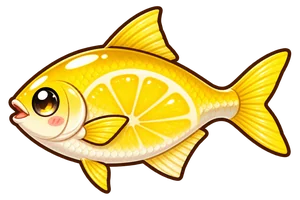
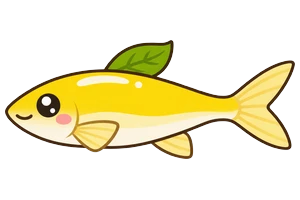
물고기 등급(S~D)과 '와! ○○○을 잡았다!' 연출, 레몬전어 새 그림
- 같은 물고기도 등급마다 크기 구간이 다르다: S 3% · A 9% · B 18% · C 30% · D 40%(멀리 던지면 S·A가 조금 더)
- 값 배수 S 2 · A 1.5 · B 1.25 · C 1.1 · D 1
- 잡으면 화면 위에 '와! ○○○을 잡았다!'와 등급 표시, 결과 카드·카피수퍼 판매 목록·할아버지 감정에도 등급
- 레몬전어: 입술·비늘 무늬를 뺀 매끈한 그림으로

Claude-Session: https://claude.ai/code/session_015t7mwg1NEPVKJN39Z7Zz4S

diff --git a/js/fishing.js b/js/fishing.js
@@ -68,12 +68,17 @@ export function rollCatch(zone, rodT, isPearl, power) {
   const under = rodT < zone, pool = FISH.filter(f => f.z === zone && !(under && (f.rare || f.king)));
   const more = FISH.filter(f => f.z === zone && !f.rare && !f.king).length / BASE_COMMON[zone]; // 물고기 종류가 늘어도 귀한 것·대장이 나올 확률은 예전 그대로
   const w = pool.map(f => (f.king ? 0.25 * more : f.rare ? 0.45 * more : 1) * (f.king || f.rare ? 1 + power * 1.2 : 1)), tot = w.reduce((a, b) => a + b, 0); let r = Math.random() * tot, f = pool[0]; for (let i = 0; i < pool.length; i++) { r -= w[i]; if (r <= 0) { f = pool[i]; break; } }
-  const t = Math.min(1, Math.pow(Math.random(), 1.6 - power * 0.6)), cm = Math.round((f.cm[0] + (f.cm[1] - f.cm[0]) * t) * 10) / 10; // 멀리 던질수록 큰 놈이 잘 문다
-  const price = Math.round(f.price[0] + (f.price[1] - f.price[0]) * Math.pow(t, 1.3));
+  // 등급(크기): 같은 물고기라도 D~S. S일수록 드물고 크고 비싸다. 멀리 던질수록 높은 등급이 조금 더 잘 문다
+  const g = rollGrade(power), [b0, b1] = GRADE[g].band, t = b0 + (b1 - b0) * Math.random(), cm = Math.round((f.cm[0] + (f.cm[1] - f.cm[0]) * t) * 10) / 10;
+  const price = Math.round((f.price[0] + (f.price[1] - f.price[0]) * Math.pow(t, 1.3)) * GRADE[g].x);
   const d = zone === 1 ? 1 + t * 2 : zone === 2 ? 4 + t * 2 + (f.rare ? 1 : 0) : 6.5 + t * 2 + (f.king ? 1 : 0); // 낚싯대 차이는 '끊어짐 칸을 몇 번 버티나'로 따로 매긴다
   const shiny = zone >= 2 && Math.random() < SHINY_P;
-  return { f, cm, price: shiny ? Math.round(price * SHINY_X) : price, d, p: power, shiny };
+  return { f, cm, g, price: shiny ? Math.round(price * SHINY_X) : price, d, p: power, shiny };
 }
+// 등급표: 확률(기본) · 크기 구간(물고기 크기 범위 안에서) · 값 배수
+export const GRADE = { S: { p: 3, band: [0.9, 1], x: 2 }, A: { p: 9, band: [0.75, 0.9], x: 1.5 }, B: { p: 18, band: [0.55, 0.75], x: 1.25 }, C: { p: 30, band: [0.3, 0.55], x: 1.1 }, D: { p: 40, band: [0, 0.3], x: 1 } };
+function rollGrade(power) { const w = Object.entries(GRADE).map(([k, v]) => [k, v.p * (k === 'S' || k === 'A' ? 1 + power * 0.6 : 1)]), tot = w.reduce((a, [, x]) => a + x, 0); let r = Math.random() * tot; for (const [k, x] of w) { r -= x; if (r <= 0) return k; } return 'D'; }
+const josaUl = w => { const c = (w || '').charCodeAt(w.length - 1) - 0xAC00; return w + (c >= 0 && c <= 11171 && c % 28 !== 0 ? '을' : '를'); };
 // 물고기가 화내며 팔짝 뛸 때: 줄이 한순간에 확 팽팽해진다(누르고 있으면 그대로, 손을 뗐으면 절반). [초급, 중급, 고급]
 const SPIKE = [0, 14, 20, 26], SPIKE_GAP = [[0, 0], [5, 8], [4, 6.5], [3, 5]], TELE = 400;
 // 난이도 맞춤(가상 플레이로 맞춘 값): 손이 빠른 사람이 초급 낚싯대로 초급 56%·중급 48%·고급 39%쯤, 고급 낚싯대로 79%·79%·71%쯤 잡는다. 서툴면 거의 못 잡는다
@@ -152,12 +157,15 @@ export function openFishing(o) {
   function fail(text) { sfx(/끊어/.test(text) ? 'snap' : 'bad'); ready(text); }
   function landed() {
     const { f, cm, price, shiny } = cur; sfx(price <= 0 ? 'bad' : f.king || f.rare || f.pearl || shiny ? 'bigfish' : 'coin'); if (price > 0) splash(34, true); phase = 'done'; patEl.hidden = true; pearlTxt.hidden = true; if (!f.pearl) wrap.classList.remove('pearl'); wrap.classList.remove('fight', 'reel'); float.style.display = rl.style.display = hook.style.display = 'none'; fishEl.className = 'fs-fish';
-    const keep = price > 0 && o.keep; if (keep) o.keep({ id: f.id, cm, p: price, ...(shiny ? { shiny: 1 } : {}) }); else o.coins(price); if (!f.icon) o.dex(f.id, cm, shiny); // 물고기는 바로 돈이 아니라 가방에 담아 카피마켓에 판다
+    const keep = price > 0 && o.keep; if (keep) o.keep({ id: f.id, cm, p: price, ...(cur.g ? { g: cur.g } : {}), ...(shiny ? { shiny: 1 } : {}) }); else o.coins(price); if (!f.icon) o.dex(f.id, cm, shiny); // 물고기는 바로 돈이 아니라 가방에 담아 카피마켓에 판다
     const w = weightOf(f, cm), card = h('div', { class: 'fs-card' + (f.pearl ? ' pearl' : f.king ? ' king' : f.rare || shiny ? ' rare' : f.icon ? ' trash' : '') + (shiny ? ' shiny' : '') }, h('div', { class: 'fs-pic', html: fishSvg(f, true, shiny) }), shiny && h('em', { class: 'fs-shiny' }, '✨ 이로치! 색이 다른 귀한 녀석 · 값 1.5배 ✨'),
-      h('b', null, f.pearl ? '✨ 바다 진주! ✨' : f.king ? `👑 ${f.name}` : f.name), !f.icon && !f.pearl && h('p', null, `${cm}cm · ${kg(w)}`), keep ? h('p', { class: 'fs-won kept' }, '🧺 가방에 담았어요 · 카피수퍼 물고기 판매에서 팔아요') : h('p', { class: 'fs-won' }, price > 0 ? `+${price.toLocaleString('ko-KR')} 🪙` : `${price} 🪙`), o.trial && h('small', null, '체험 중이라 돈과 도감은 저장되지 않아요.'),
+      h('b', null, f.pearl ? '✨ 바다 진주! ✨' : f.king ? `👑 ${f.name}` : f.name), cur.g && h('span', { class: 'fs-grade g' + cur.g }, `${cur.g}등급`), !f.icon && !f.pearl && h('p', null, `${cm}cm · ${kg(w)}`), keep ? h('p', { class: 'fs-won kept' }, '🧺 가방에 담았어요 · 카피수퍼 물고기 판매에서 팔아요') : h('p', { class: 'fs-won' }, price > 0 ? `+${price.toLocaleString('ko-KR')} 🪙` : `${price} 🪙`), o.trial && h('small', null, '체험 중이라 돈과 도감은 저장되지 않아요.'),
       f.icon && h('small', null, '바다 쓰레기를 건졌어요. 처리 비용이 나갔어요.'),
       h('div', { class: 'fs-acts' }, h('button', { class: 'btn primary', onClick: () => { card.remove(); ready(); } }, '또 던지기'), h('button', { class: 'btn', onClick: () => { card.remove(); close(); } }, '그만하기')));
     wrap.append(card); say(''); btn.textContent = '…'; btn.onclick = null;
+    // 와! ○○○을 잡았다! — 화면 가득 터지는 글자, 그 아래 등급
+    if (!f.icon) { const wow = h('div', { class: 'fs-wow' + (cur.g ? ' g' + cur.g : '') + (f.pearl || f.king ? ' gold' : '') }, h('b', null, `와! ${josaUl(f.pearl ? '바다 진주' : f.name)} 잡았다!`), cur.g && h('span', { class: 'fs-grade big g' + cur.g }, cur.g), cur.g && h('small', null, { S: '전설의 대물!', A: '엄청 큰 녀석!', B: '꽤 큼직해요', C: '보통 크기', D: '아담한 녀석' }[cur.g]));
+      (wrap.querySelector('.fs-view') || wrap).append(wow); setTimeout(() => wow.classList.add('out'), 1900); setTimeout(() => wow.remove(), 2400); }
   }
   // 찔끔찔끔 누르기: 0.3초도 안 되게 눌렀다 떼면 물고기가 눈치채고 인내심이 깎인다(깊은 바다일수록 많이)
   const down = () => { if (!hold) pressAt = performance.now(); hold = true; };

diff --git a/js/social.js b/js/social.js
@@ -679,11 +679,12 @@ export function mount(el, ctx) {
     bag = { ...bag, fish: { ...(bag.fish || {}), [k]: v } }; ctx.store.update('bag/' + ctx.uid + '/fish', { [k]: v }).catch(() => {}); }
   const fishOf = id => (id === 'pearl' ? { name: '바다 진주', pearl: true } : FISH.find(f => f.id === id));
   function appraise(x) { const f = fishOf(x.id), p = won(x.p);
+    const gl = x.g ? ` ${x.g}등급이여!${x.g === 'S' ? ' 이런 대물은 처음 보는구먼!' : x.g === 'A' ? ' 아주 귀한 크기여.' : ''}` : '';
     if (!f) return `허허, 이건 뭔지 모르겠구먼. ${p} 쳐 주지.`;
     if (f.pearl) return `이, 이건… 바다 진주 아닌가! 평생 몇 번 못 보는 물건이여. 군말 없이 ${p} 쳐 주지!`;
     const [c0, c1] = f.cm, t = Math.max(0, Math.min(1, (x.cm - c0) / (c1 - c0))), pct = Math.round(t * 100), big = t >= 0.8 ? '아주 실하네!' : t >= 0.5 ? '제법 큼직하구먼.' : t >= 0.2 ? '보통 크기여.' : '아직 어린 녀석이구먼.';
     const jong = w => { const c = w.charCodeAt(w.length - 1) - 0xAC00; return c >= 0 && c <= 11171 && c % 28 !== 0; }, nm = f.name, eun = nm + (jong(nm) ? '은' : '는'), ine = nm + (jong(nm) ? '이네' : '네'), igu = nm + (jong(nm) ? '이구먼' : '구먼');
-    return `${f.king ? `어이쿠, 이게 그 ${nm}!? 이건 ${x.cm}cm짜리여.` : f.rare ? `오호, 귀한 ${igu}! 이건 ${x.cm}cm짜리여.` : `오~ 이건 ${x.cm}cm짜리 ${ine}.`} ${big} ${eun} ${c0}~${c1}cm 사이에서 클수록 값이 올라. ${x.cm}cm면 상위 ${Math.max(1, 100 - pct)}%라… 센치로 환산하면 ${x.shiny ? `${won(Math.round(x.p / 1.5))}인데… 가만, 이건 이로치 아닌가! 색이 다른 놈은 평생 몇 번 못 보지. 1.5배 쳐서 ${p}!` : `이 가격이여, ${p}!`}`; }
+    return `${f.king ? `어이쿠, 이게 그 ${nm}!? 이건 ${x.cm}cm짜리여.` : f.rare ? `오호, 귀한 ${igu}! 이건 ${x.cm}cm짜리여.` : `오~ 이건 ${x.cm}cm짜리 ${ine}.`}${gl} ${big} ${eun} ${c0}~${c1}cm 사이에서 클수록 값이 올라. ${x.cm}cm면 상위 ${Math.max(1, 100 - pct)}%라… 센치로 환산하면 ${x.shiny ? `${won(Math.round(x.p / 1.5))}인데… 가만, 이건 이로치 아닌가! 색이 다른 놈은 평생 몇 번 못 보지. 1.5배 쳐서 ${p}!` : `이 가격이여, ${p}!`}`; }
   const GRANDPA = capy({ color: 'choco', face: 'happy', head: true }).replace('</svg>', '<path d="M14 33 q10 -9 20 -1" fill="none" stroke="#F4F1EA" stroke-width="5" stroke-linecap="round"/><path d="M86 32 q10 -8 20 1" fill="none" stroke="#F4F1EA" stroke-width="5" stroke-linecap="round"/><circle cx="24" cy="42" r="10" fill="rgba(255,255,255,.25)" stroke="#C9A24A" stroke-width="2.6"/><circle cx="96" cy="42" r="10" fill="rgba(255,255,255,.25)" stroke="#C9A24A" stroke-width="2.6"/><path d="M34 42 q26 -8 52 0" fill="none" stroke="#C9A24A" stroke-width="2.2"/><path d="M38 66 q10 -8 22 -1 q12 -7 22 1 q-10 9 -22 3 q-12 6 -22 -3z" fill="#F4F1EA" stroke="#D8D2C4" stroke-width="1.5"/><path d="M22 18 q38 -26 76 0 q-38 -8 -76 0z" fill="#6B4A2F"/><rect x="18" y="13" width="84" height="8" rx="4" fill="#7E5A3A"/></svg>');
   // ----- 카피수퍼: 할아버지 주인장이 판매대 뒤에서 사고판다 -----
   const STALL = (() => { const B = '#94694A', D = '#5F3F2B', L = '#C9A07C', head = GRANDPA.replace('<svg xmlns="http://www.w3.org/2000/svg" viewBox="0 -22 120 112">', '<svg x="136" y="0" width="88" height="82" viewBox="0 -22 120 112" overflow="visible">');
@@ -745,7 +746,7 @@ export function mount(el, ctx) {
       const L = Object.entries(bag.fish || {}).filter(([, v]) => v).sort((a, b) => (b[1].t || 0) - (a[1].t || 0)), total = L.reduce((n, [, v]) => n + v.p, 0);
       out.push(['sec', `🐟 물고기 ${L.length}마리`]);
       if (L.length) { out.push(h('button', { class: 'btn primary mk-all', onClick: async () => { if (await sell(total, fishGo(L), true)) { say(`허허, 몽땅 합쳐서 ${won(total)}이여. 다음에도 싱싱한 놈으로 부탁하네!`); draw(); } } }, `물고기 전부 팔기 · ${won(total)}`));
-        L.forEach(([k, v]) => { const f = fishOf(v.id) || { name: '?' }; out.push({ big: 1, gold: f.pearl || f.king || f.rare || v.shiny, ic: h('span', { class: 'so-try', html: f.pearl ? fishSvg({ pearl: true }) : f.id ? fishSvg(f, false, v.shiny) : '' }), name: (v.shiny ? '✨ ' : '') + (f.king ? '👑 ' + f.name : f.name), sub: f.pearl ? '반짝반짝 진주 · 눌러서 값 물어보기' : `${v.cm}cm · 눌러서 값 물어보기`, price: v.p, line: () => appraise(v), done: `거래 고맙구먼! ${won(v.p)} 여기 있네.`, act: () => sell(v.p, fishGo([[k, v]]), true) }); }); }
+        L.forEach(([k, v]) => { const f = fishOf(v.id) || { name: '?' }; out.push({ big: 1, gold: f.pearl || f.king || f.rare || v.shiny, ic: h('span', { class: 'so-try', html: f.pearl ? fishSvg({ pearl: true }) : f.id ? fishSvg(f, false, v.shiny) : '' }), name: (v.shiny ? '✨ ' : '') + (f.king ? '👑 ' + f.name : f.name) + (v.g ? ` · ${v.g}등급` : ''), sub: f.pearl ? '반짝반짝 진주 · 눌러서 값 물어보기' : `${v.cm}cm · 눌러서 값 물어보기`, price: v.p, line: () => appraise(v), done: `거래 고맙구먼! ${won(v.p)} 여기 있네.`, act: () => sell(v.p, fishGo([[k, v]]), true) }); }); }
       else out.push(['note', '가방에 물고기가 없어요. 낚시터에서 잡아 오세요.']);
       const rares = Object.keys(bag.rares || {}).filter(k => bag.rares[k]).map(Number), pins = Object.keys(bag.pins || {}).filter(k => bag.pins[k]).map(Number), hats = ANIMALS.map((_, i) => i).filter(i => uidOwned[wareOf(i).id]);
       const clothes = Object.keys(uidOwned).filter(id => uidOwned[id] && !id.startsWith('h-zoo') && priceOf(id) > 0);

diff --git a/css/app.css b/css/app.css
@@ -1334,3 +1334,17 @@ html.fixed-page,html.fixed-page body{overflow:hidden;height:100%;overscroll-beha
 .tal-time i { position: absolute; left: 0; top: 0; bottom: 0; background: linear-gradient(90deg, #7B4FB5, #B07FE8); transition: width .1s linear; }
 .tal-time b { position: relative; display: block; text-align: center; font-size: 12px; line-height: 18px; color: #fff; text-shadow: 0 1px 2px rgba(0,0,0,.4); }
 .tal-time.hurry i { background: linear-gradient(90deg, #E5484D, #FF8787); } .tal-time.hurry { animation: crowShake .3s ease-in-out infinite; }
+/* 물고기 등급 */
+.fs-grade { display: inline-block; min-width: 26px; padding: 1px 8px; margin: 4px 0 2px; border-radius: 10px; font: 900 13px/1.5 var(--head); color: #fff; }
+.fs-grade.gS { background: linear-gradient(135deg, #FFD23F, #FF8A00, #FF4D8D); box-shadow: 0 0 10px rgba(255,170,0,.8); } .fs-grade.gA { background: #9B5DE5; } .fs-grade.gB { background: #3A86FF; } .fs-grade.gC { background: #2BB673; } .fs-grade.gD { background: #9AA0A6; }
+.fs-wow { position: absolute; left: 50%; top: 3%; transform: translateX(-50%); z-index: 30; display: flex; flex-direction: column; align-items: center; pointer-events: none; animation: wowIn .5s cubic-bezier(.2,1.6,.4,1); width: 96%; }
+.fs-wow.out { animation: wowOut .5s ease-in forwards; }
+.fs-wow b { font: 900 21px/1.25 var(--head); color: #fff; text-align: center; padding: 6px 16px; border-radius: 18px; border: 3px solid #fff; background: linear-gradient(135deg, #2B8FD6, #1C5C9C); box-shadow: 0 4px 0 #134674, 0 6px 14px rgba(0,0,0,.25); word-break: keep-all; }
+.fs-wow.gold b, .fs-wow.gS b { background: linear-gradient(135deg, #FFB703, #FF6B00); box-shadow: 0 4px 0 #B5651D, 0 0 18px rgba(255,210,63,.9); } .fs-wow.gA b { background: linear-gradient(135deg, #9B5DE5, #6A2FB0); box-shadow: 0 4px 0 #4E2280, 0 6px 14px rgba(0,0,0,.25); }
+.fs-grade.big { font-size: 26px; min-width: 50px; padding: 0 12px; margin-top: 6px; border-radius: 16px; border: 3px solid #fff; animation: gradeIn .5s .25s cubic-bezier(.2,1.6,.4,1) both; }
+.fs-wow small { margin-top: 4px; background: rgba(255,255,255,.9); color: #5B4636; font-weight: 800; padding: 2px 10px; border-radius: 10px; }
+.fs-wow.gS .fs-grade.big { animation: gradeIn .5s .25s cubic-bezier(.2,1.6,.4,1) both, sGlow 1s .75s ease-in-out infinite; }
+@keyframes wowIn { 0% { transform: translateX(-50%) scale(.2); opacity: 0; } 100% { transform: translateX(-50%) scale(1); opacity: 1; } }
+@keyframes gradeIn { 0% { transform: scale(.2) rotate(-20deg); opacity: 0; } 100% { transform: none; opacity: 1; } }
+@keyframes sGlow { 0%, 100% { box-shadow: 0 0 10px rgba(255,170,0,.8); } 50% { box-shadow: 0 0 26px #FFD23F, 0 0 40px rgba(255,77,141,.6); } }
+@keyframes wowOut { to { transform: translateX(-50%) translateY(-30px); opacity: 0; } }
